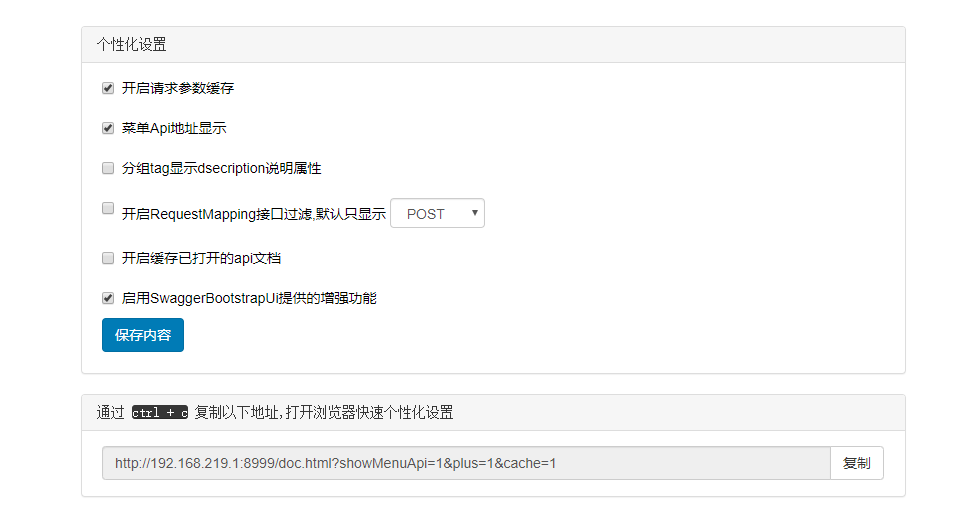
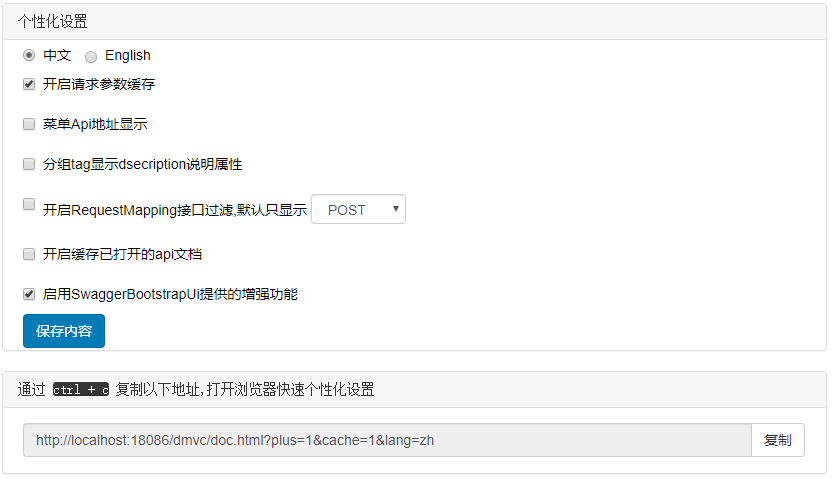
i18n文档完善

diff --git a/docs/.vuepress/config.js b/docs/.vuepress/config.js
@@ -116,7 +116,7 @@ function genGuideSideBar(language) {
         {
             title: language ? "特点" : "Feature",
             collapsable: false,
-            children: ["ui-style", "offline-md", "fullsearch", "fullparams", "authorize","enh-func","settings","self-doc"]
+            children: ["ui-style", "offline-md", "fullsearch", "fullparams", "authorize","enh-func","settings","self-doc","i18n"]
         },
         {
             title: language ? "默认规则说明" : "Default Rule",

diff --git a/docs/guide/self-doc.md b/docs/guide/self-doc.md
@@ -19,13 +19,20 @@
 比如`api.md`文档：
 
 ```markdown
-## 获取用户列表
+# 自定义文档说明
 
-access_token是公众号的全局唯一接口调用凭据，公众号调用各接口时都需使用access_token。开发者需要进行妥善保存。access_token的存储至少要保留512个字符空间。access_token的有效期目前为2个小时，需定时刷新，重复获取将导致上次获取的access_token失效
+## 效果说明
 
+在`1.9.3`版本中,`swagger-bootstrap-ui`为了满足文档的个性化配置,添加了自定义文档功能
+
+开发者可自定义`md`文件扩展补充整个系统的文档说明
+
+开发者可以在当前项目中添加一个文件夹，文件夹中存放`.md`格式的markdown文件,每个`.md`文档代表一份自定义文档说明
+
+**注意**：自定义文档说明必须以`.md`结尾的文件,其他格式文件会被忽略
 ```
 
-最终在`swagger-bootstrap-ui`的界面中,`api.md`的文档标题会是`获取用户列表`
+最终在`swagger-bootstrap-ui`的界面中,`api.md`的文档标题会是`自定义文档说明`
 
 整个文档效果如下：
 
@@ -72,9 +79,8 @@ public class SwaggerConfiguration {
 
 ### Spring MVC环境
 
-在Spring MVC环境中,需要在Spring的XML配置文件中注入`MarkdownFiles`类的实例bean
+在Spring MVC环境中,首先引入swagger-bootstrap-ui的jar包文件
 
-首先引入swagger-bootstrap-ui的jar包文件
 ```xml
 <dependency>
   <groupId>com.github.xiaoymin</groupId>
@@ -82,6 +88,7 @@ public class SwaggerConfiguration {
   <version>1.9.3</version>
 </dependency>
 ```
+然后,需要在Spring的XML配置文件中注入`MarkdownFiles`类的实例bean
 
 如下：
 

diff --git a/docs/guide/i18n.md b/docs/guide/i18n.md
@@ -1,0 +1,31 @@
+# i18n 国际化
+
+在`1.9.3`版本中,添加了i18n国际化的支持,目前主要实现中文、English两个语言版本,如果后续要求有新的语言支持,可以提[issue](https://github.com/xiaoymin/Swagger-Bootstrap-UI/issues/new)给我,或者修改项目中的`i18n.js`文件,提交pr给我
+
+`swagger-bootstrap-ui`通过读取浏览器的`navigator`对象,判断当前浏览器的默认语言版本
+
+```js
+//获取当前浏览器语言
+if(window.navigator){
+    var lang =(navigator.language || navigator.browserLanguage);
+    if(lang!=null&&lang!=undefined&&lang!=""){
+        lang=lang.toLowerCase();
+        if (lang.indexOf("en")>0){
+            this.language="en";
+        }
+    }
+}
+```
+
+如果你想使用非当前浏览器默认的语言版本,可以在个性化设置功能中进行切换
+
+![](/images/1-9-3/i18n.png)
+
+`swagger-bootstrap-ui`默认使用的是中文版本
+
+
+或者使用个性化快速设置功能,地址栏快速设置访问：
+
+`http://127.0.0.1:8888/doc.html?plus=1&cache=1&lang=en`
+
+lang可选择：中文(zh)、English(en)

diff --git a/docs/guide/settingsFastAccess.md b/docs/guide/settingsFastAccess.md
@@ -30,6 +30,8 @@ B：好的~~!!（PS:就不能直接给弄好吗? o(╥﹏╥)o）
 
 ## 个性化配置参数说明
 
+- i18n国际化支持:`lang=en`  lang可选择：中文(zh)、English(en)
+
 - 开启请求参数缓存：`cache=1`
 
 - 菜单Api地址显示: `showMenuApi=1`
